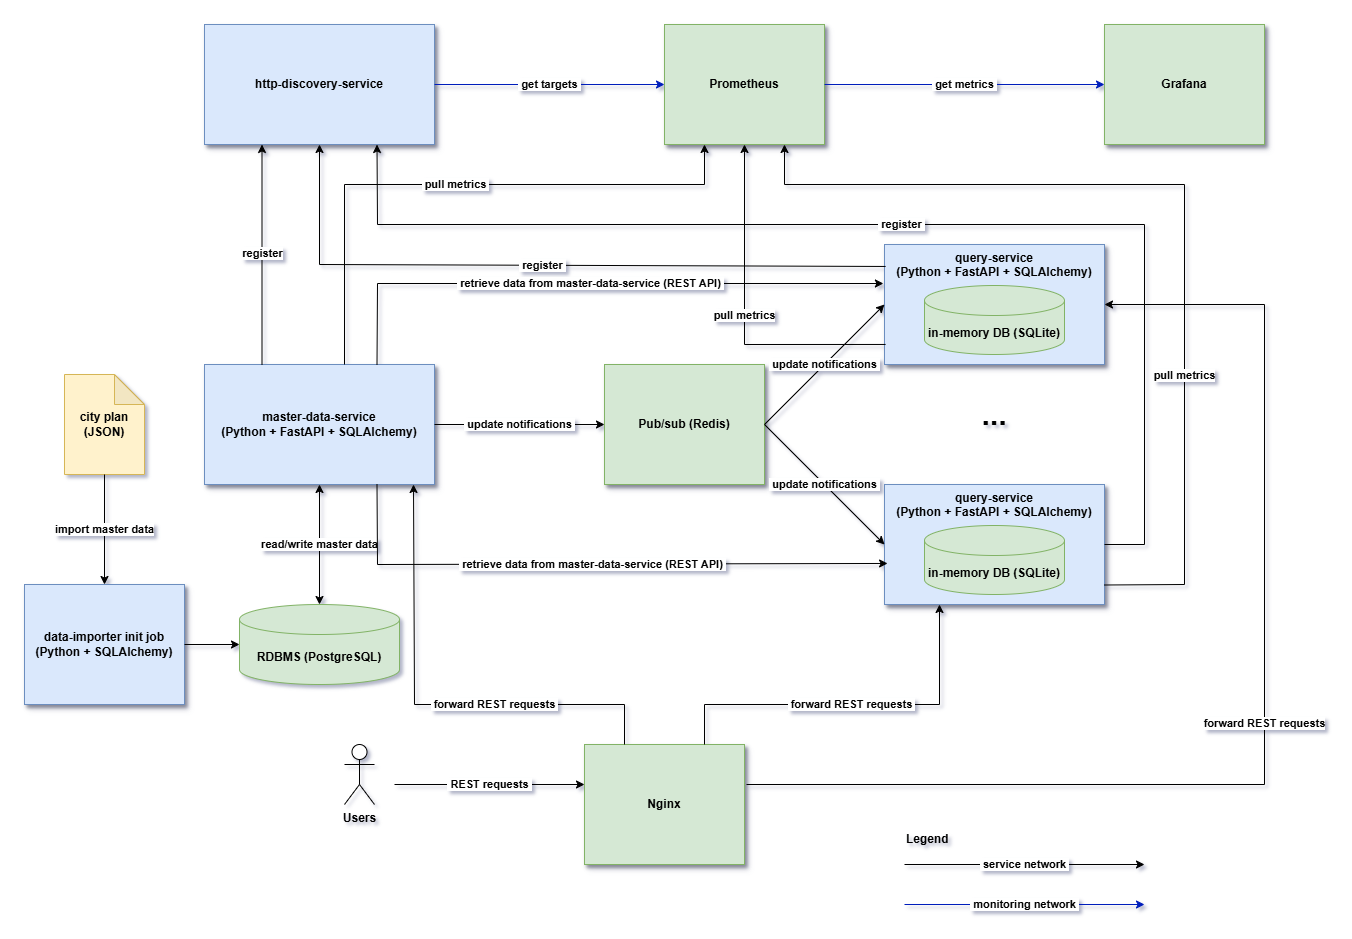
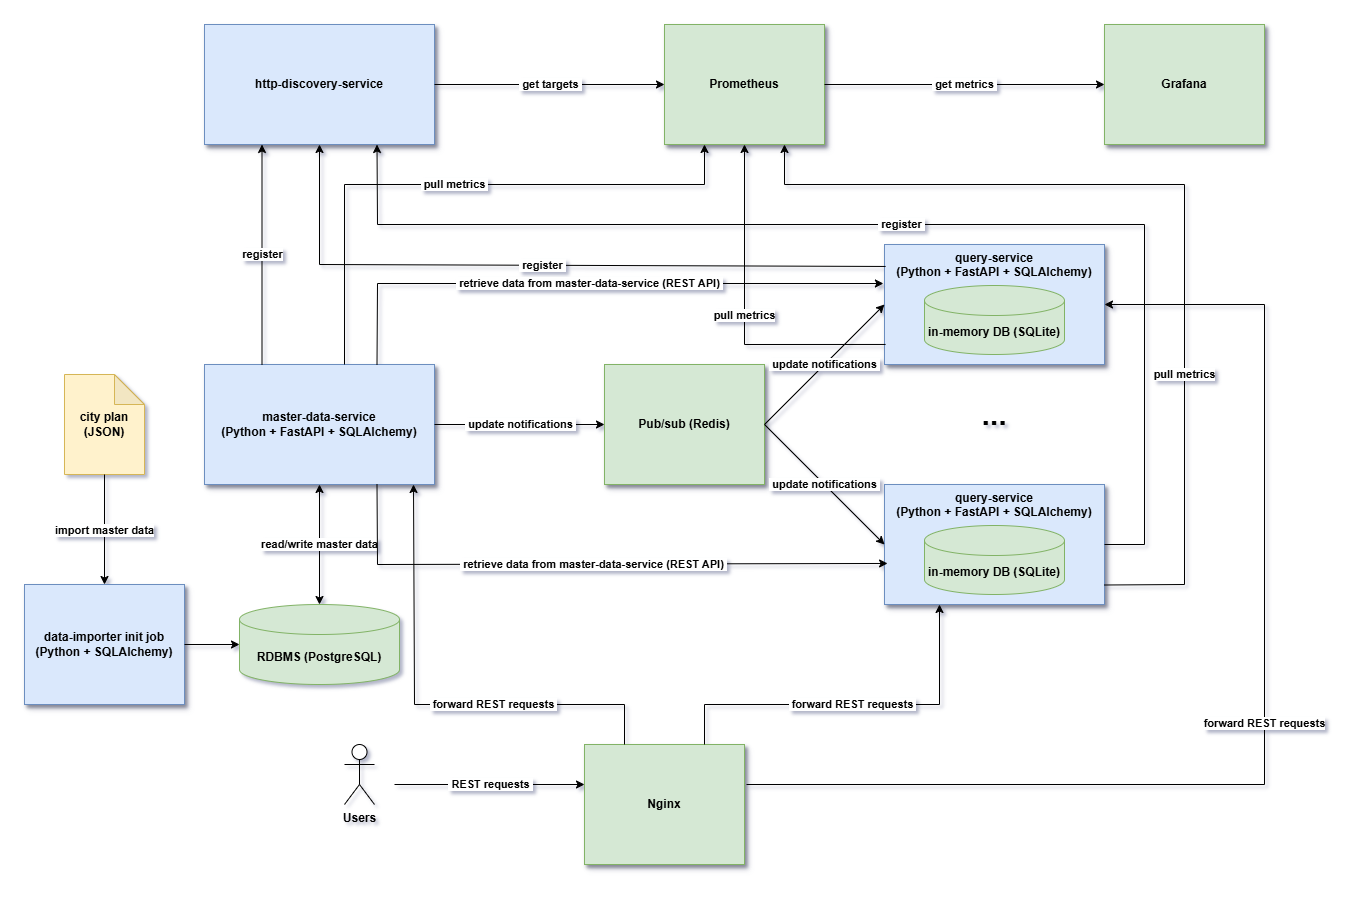
Networks for Docker Compose simplifiled (single network is used). (#47)

diff --git a/dev-ops/docker-compose/README.md b/dev-ops/docker-compose/README.md
@@ -70,7 +70,7 @@ The most notable aspects of the startup ordering:
 | HTTP Service Discovery | 9099 | Prometheus HTTP SD endpoint |
 | Loki *(logging profile)* | 3100 | Log aggregation backend |
 
-PostgreSQL, Redis, the data importer, the two microservices, and Nginx are on an internal `service-network` and are not directly exposed to the host (except Nginx on port 80). Prometheus, Grafana, Loki, and Promtail share a separate `monitoring-network`.
+PostgreSQL, Redis, the data importer, the two microservices, Nginx, and all monitoring components share a single internal `city-navigator-network`. Only Nginx (port 80), Prometheus (port 9090), Grafana (port 3000), HTTP Service Discovery (port 9099), and Loki (port 3100) are exposed to the host.
 
 
 ## Nginx HTTP Router
